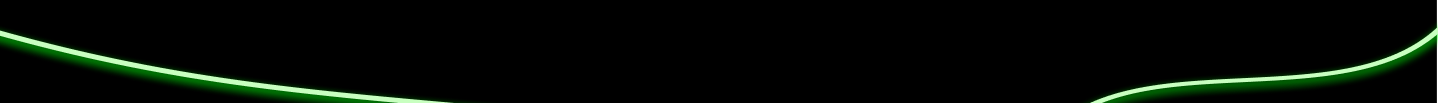
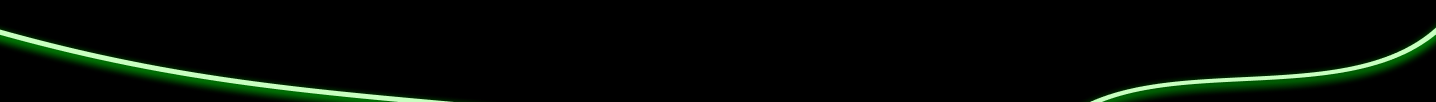
ヘッダーとフッターの画像読み込み用のページ作成しました、cssを作成しました

diff --git a/user/public/css/header_style.css b/user/public/css/header_style.css
@@ -29,6 +29,11 @@ header{
     top: 10px;
 }
 
+.header-bottom{
+    border-bottom: 0.05rem solid #18CE0F;
+}
+
+
 .admin-link{
     color:white
 }
@@ -48,4 +53,8 @@ header{
     .h1{
         right: auto;
     }
+}
+
+.Topline{
+    width: 100%;
 }

diff --git a/user/public/css/footer.css b/user/public/css/footer.css
@@ -1,0 +1,3 @@
+.Bottomline{
+width: 100%;
+}

diff --git a/user/public/header.php b/user/public/header.php
@@ -11,7 +11,7 @@
     <script src="https://cdn.jsdelivr.net/npm/bootstrap@5.3.0/dist/js/bootstrap.bundle.min.js"></script>
 </head>
 <body>
-    <header class="bg-black p-3 border-bottom">
+    <header class="bg-black p-3 header-bottom">
         <div class="container d-flex justify-content-between align-items-center">
             <div>
                 <a href="Top-index.php"><img src="./image/rogo.jpg" alt="Site Logo" style="height: 50px;"></a>
@@ -32,5 +32,10 @@
             </div>
         </div>
     </header>
+
+    <div>
+        <img class="Topline" src="./image/haikeiTop.png">
+    </div>
+
 </body>
 </html>

diff --git a/user/public/thread_detail.php b/user/public/thread_detail.php
@@ -70,6 +70,7 @@ try {
     <title>スレッド詳細</title>
     <link rel="stylesheet" href="./css/report_modal.css">
     <link rel="stylesheet" href="./css/sns_shere.css">
+    <link rel="stylesheet" href="./css/footer.css">
     <link rel="stylesheet" href="./css/thread_detail.css">
 </head>
 <body>
@@ -170,4 +171,5 @@ try {
     </script>
 
 </body>
+<?php require 'footer.php'?>
 </html>

diff --git a/user/public/footer.php b/user/public/footer.php
@@ -1,0 +1,5 @@
+<footer>
+    <div>
+        <img class="Bottomline" src="./image/haikeiBottom.png">
+    </div>
+</footer>
